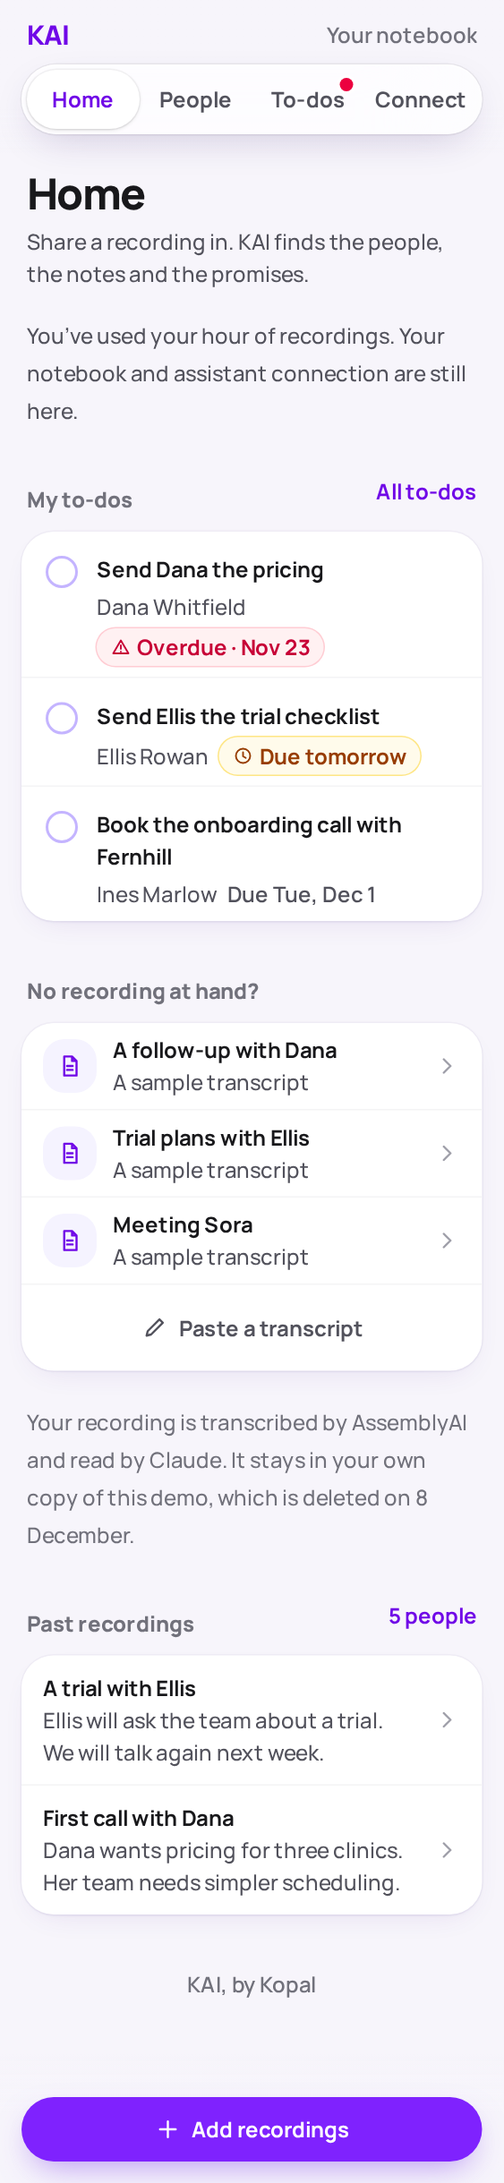
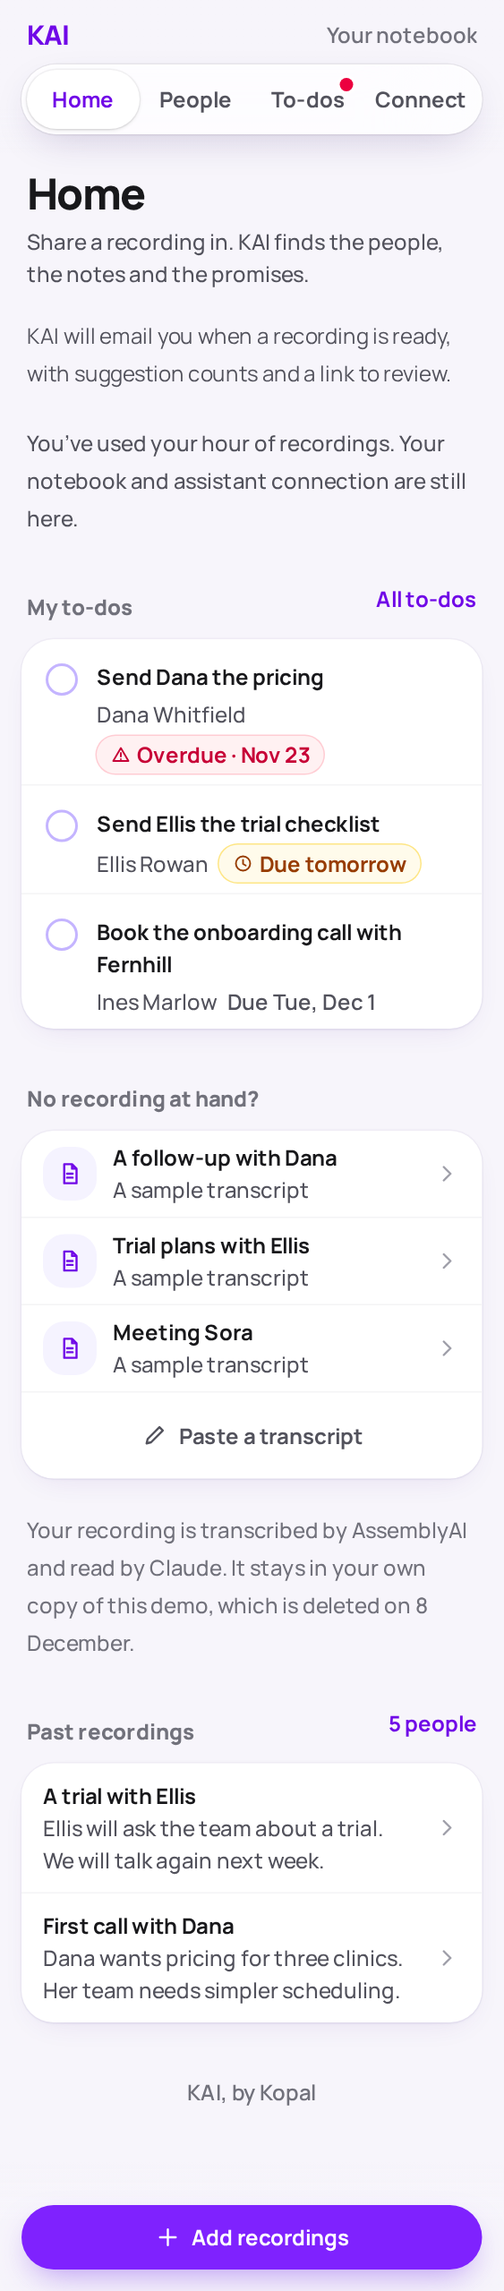
Email verified owners when recordings are ready to review (#21)
* Offer a private one-hour recording trial through the waitlist

* Clarify private trial access in the README

* Pause public trial claims pending email verification

* Verify trial email ownership and enforce IP and 100-user caps

* Inspect protected proxy fingerprints without exposing IP addresses

* Use the Sprite client IP header for trial limits

* Make phone shortcut setup three clear steps

* Bound transcription to reserved seconds and verify trial email privacy

* Email verified owners when recordings are ready to review

* Create temporary fixture directory for fresh Sprite checks

diff --git a/tests/recording-mail.test.ts b/tests/recording-mail.test.ts
@@ -1,0 +1,125 @@
+import {test} from 'node:test';
+import assert from 'node:assert/strict';
+import {randomUUID} from 'node:crypto';
+import {mkdirSync,mkdtempSync,rmSync} from 'node:fs';
+import {openDatabase,seed,type KaiDatabase} from '../src/server/db';
+import {createJudge} from '../src/server/access';
+import {addAudio,queueWorker,fakeTranscriber} from '../src/server/audio';
+import {testTone} from '../src/server/gateway';
+import {recordingMailWorker,type ReadyCounts} from '../src/server/recording-mail';
+import {readyMessage,resendReadySender} from '../src/server/trial-mail';
+import {createApp} from '../src/server/app';
+const day=86400000;
+function actor(db:KaiDatabase,verified=true) {
+ const judge=createJudge(db,false),email=randomUUID()+'@example.invalid';
+ db.prepare('UPDATE workspaces SET trial_seconds=3600,trial_verified=? WHERE id=?').run(Number(verified),judge.id);
+ db.prepare('INSERT INTO waitlist(email,created_at,workspace_id,verified_at) VALUES (?,?,?,?)').run(email,new Date().toISOString(),judge.id,verified ? new Date().toISOString():null);
+ return {...judge,email};
+}
+function recording(db:KaiDatabase,workspace:string,options:{status?:string;source?:string;notify?:number;transcribed?:number}={}) {
+ const id=randomUUID();
+ db.prepare('INSERT INTO conversations(id,workspace_id,title,summary,source,text,happened_on,status,notify_ready,transcribed) VALUES (?,?,?,?,?,?,?,?,?,?)').run(id,workspace,'Private invented title','Private invented summary',options.source??'recording','Private invented words','2026-11-26',options.status??'ready',options.notify??1,options.transcribed??1);
+ return id;
+}
+test('recording mail isolates verified recipients, sends counts only, and skips other sources and unfinished work',async()=>{
+ const db=openDatabase();seed(db);const first=actor(db),second=actor(db),unverified=actor(db,false);
+ const id=recording(db,first.id),empty=recording(db,second.id,{source:'shared'});
+ for(const kind of ['person','note','todo','done'])db.prepare("INSERT INTO suggestions VALUES (?,?,?,?,?,?,'proposed')").run(randomUUID(),first.id,id,kind,JSON.stringify({text:'Private invented action'}),'Private invented quote');
+ for(const options of [{status:'failed'},{status:'listening'},{status:'reading'},{status:'waiting'},{source:'sample'},{source:'paste'},{notify:0},{transcribed:0}])recording(db,first.id,options);
+ recording(db,unverified.id);recording(db,'public');
+ const sent:{email:string;id:string;counts:ReadyCounts}[]=[];
+ const worker=recordingMailWorker(db,async(email,id,counts)=>{sent.push({email,id,counts})});
+ try {
+  await Promise.all([worker.kick(),worker.kick()]);await worker.kick();
+  assert.equal(sent.length,2);
+  assert.deepEqual(sent.find(s=>s.id===id),{email:first.email,id,counts:{person:1,note:1,todo:1,done:1}});
+  assert.deepEqual(sent.find(s=>s.id===empty),{email:second.email,id:empty,counts:{person:0,note:0,todo:0,done:0}});
+  for(const result of sent) {
+   const text=readyMessage('https://kai.example.invalid',result.id,result.counts);
+   assert.ok(text.includes('/recordings/'+result.id));assert.ok(text.includes('browser where you started'));
+   for(const privateText of ['Private invented',first.email,second.email,first.cookie,second.cookie])assert.ok(!text.includes(privateText));
+  }
+  assert.match(readyMessage('https://kai.example.invalid',empty,sent.find(s=>s.id===empty)!.counts),/no new suggestions/);
+  assert.equal((db.prepare("SELECT count(*) n FROM suggestions WHERE conversation_id=? AND status='proposed'").get(id) as {n:number}).n,4);
+ }finally{await worker.stop();db.close()}
+});
+test('new shared audio queues one completion email after reading; mail failure leaves its suggestions ready',async()=>{
+ mkdirSync('.data',{recursive:true});
+ const db=openDatabase();seed(db);const judge=actor(db),directory=mkdtempSync('.data/mail-audio-');let sends=0;
+ const mail=recordingMailWorker(db,async()=>{sends++;throw new Error('Invented failure')});
+ const worker=queueWorker(db,async(_input,call)=>{call('describe_recording',{title:'Invented update',summary:'A made-up summary.\nNo new promises.'})},fakeTranscriber,()=>{void mail.kick()});
+ try {
+  const [id]=await addAudio(db,judge.id,[{name:'memo.wav',buffer:testTone(),date:Date.now()}],directory,'shared',{awaitingPerson:true});
+  await worker.kick();await mail.kick();assert.equal(sends,0);
+  db.prepare('UPDATE conversations SET awaiting_person=0 WHERE id=?').run(id);
+  await worker.kick();await mail.kick();assert.equal(sends,1);
+  assert.equal((db.prepare('SELECT status FROM conversations WHERE id=?').get(id) as {status:string}).status,'ready');
+ }finally{await worker.stop();await mail.stop();db.close();rmSync(directory,{recursive:true,force:true})}
+});
+test('recording mail retries the same payload and key after restart, bounded by attempts and idempotency lifetime',async()=>{
+ let db=openDatabase();seed(db);const judge=actor(db),id=recording(db,judge.id);let now=Date.now(),fail=true;
+ const sent:{id:string;counts:ReadyCounts}[]=[];
+ const send=async(_email:string,id:string,counts:ReadyCounts)=>{sent.push({id,counts});if(fail)throw new Error('Invented timeout after provider accepted mail')};
+ let worker=recordingMailWorker(db,send,()=>now);
+ try {
+  await worker.kick();await worker.stop();assert.equal(sent.length,1);
+  const snapshot=db.serialize();db.close();db=openDatabase(snapshot);now+=60001;
+  db.prepare("INSERT INTO suggestions VALUES (?,?,?,?,?,?,'proposed')").run(randomUUID(),judge.id,id,'note','{}','Invented quote');
+  worker=recordingMailWorker(db,send,()=>now);await worker.kick();now+=60001;fail=false;await worker.kick();await worker.kick();
+  assert.equal(sent.length,3);assert.deepEqual(sent[0],sent[1]);assert.deepEqual(sent[1],sent[2]);
+  const rejected=recording(db,judge.id);fail=true;
+  await worker.kick();now+=60001;await worker.kick();now+=60001;await worker.kick();now+=60001;await worker.kick();
+  assert.equal(sent.filter(s=>s.id===rejected).length,3);
+  const expired=recording(db,judge.id);await worker.kick();now+=23*3600000;await worker.kick();
+  assert.equal(sent.filter(s=>s.id===expired).length,1);
+ }finally{await worker.stop();db.close()}
+});
+test('recording mail enforces per-notebook, global and shared verification send caps across restart',async()=>{
+ let db=openDatabase();seed(db);let now=Date.now(),sends=0;
+ const actors=Array.from({length:7},()=>actor(db));for(const who of actors)for(let i=0;i<11;i++)recording(db,who.id);
+ let worker=recordingMailWorker(db,async()=>{sends++},()=>now);
+ try {
+  await worker.kick();assert.equal(sends,60);
+  const counts=db.prepare('SELECT workspace_id,count(*) n FROM notification_sends GROUP BY workspace_id').all() as {n:number}[];assert.ok(counts.every(r=>r.n<=10));
+  await worker.stop();const snapshot=db.serialize();db.close();db=openDatabase(snapshot);
+  worker=recordingMailWorker(db,async()=>{sends++},()=>now);await worker.kick();assert.equal(sends,60);
+  now+=day+1;
+  const insert=db.prepare('INSERT INTO trial_sends(id,ip_hash,email_hash,sent_at) VALUES (?,?,?,?)');for(let i=0;i<99;i++)insert.run(randomUUID(),'invented-ip-'+i,'invented-email-'+i,now);
+  await worker.kick();assert.equal(sends,61);await worker.kick();assert.equal(sends,61);
+ }finally{await worker.stop();db.close()}
+});
+test('verification shares the 100-attempt cap with recording emails',async()=>{
+ const db=openDatabase();seed(db);const judge=actor(db),now=Date.now();let sends=0;
+ const insert=db.prepare('INSERT INTO notification_sends(id,workspace_id,sent_at) VALUES (?,?,?)');for(let i=0;i<60;i++)insert.run(randomUUID(),judge.id,now);
+ const codes=db.prepare('INSERT INTO trial_sends(id,ip_hash,email_hash,sent_at) VALUES (?,?,?,?)');for(let i=0;i<40;i++)codes.run(randomUUID(),'invented-ip-'+i,'invented-email-'+i,now);
+ const app=createApp(db,{secureCookies:false,sendCode:async()=>{sends++}}),server=app.listen(18576,'127.0.0.1');await new Promise<void>(r=>server.once('listening',r));
+ try {
+  const r=await fetch('http://127.0.0.1:18576/api/trial/code',{method:'POST',headers:{'Content-Type':'application/json'},body:JSON.stringify({email:randomUUID()+'@example.invalid'})});assert.equal(r.status,429);assert.equal(sends,0);
+ }finally{await app.locals.queue.stop();await new Promise<void>(r=>server.close(()=>r()));db.close()}
+});
+test('Resend completion mail uses one stable idempotency key and a secret-free HTTPS review link',async()=>{
+ const original=globalThis.fetch;const requests:{body:any;key:string}[]=[];
+ globalThis.fetch=async(input,init)=>{
+  if(String(input).endsWith('/gateway/list'))return Response.json(['https://api.sprites.dev/v1/gateway/resend/invented']);
+  requests.push({body:JSON.parse(String(init?.body)),key:new Headers(init?.headers).get('Idempotency-Key')!});return Response.json({id:'invented-email'});
+ };
+ try {
+  const send=resendReadySender('KAI <kai@example.invalid>','https://kai.example.invalid');
+  const email=randomUUID()+'@example.invalid',id=randomUUID(),counts={person:1,note:2,todo:3,done:0};
+  await send(email,id,counts);await send(email,id,counts);assert.deepEqual(requests[0],requests[1]);
+  assert.deepEqual(requests[0].body.to,[email]);assert.match(requests[0].body.text,/3 suggested to-dos/);assert.ok(!requests[0].body.text.includes(email));
+  assert.throws(()=>resendReadySender('KAI <kai@example.invalid>','https://kai.example.invalid/?private=yes'));
+ }finally{globalThis.fetch=original}
+});
+
+test('a second recording finishing during mail delivery is sent without a new browser request',async()=>{
+ const db=openDatabase();seed(db);const judge=actor(db),first=recording(db,judge.id),second=recording(db,judge.id,{status:'reading'});
+ const sent:string[]=[];let begin!:()=>void,release!:()=>void;
+ const begun=new Promise<void>(r=>begin=r),held=new Promise<void>(r=>release=r);
+ const worker=recordingMailWorker(db,async(_email,id)=>{sent.push(id);if(id===first){begin();await held}});
+ try {
+  const run=worker.kick();await begun;
+  db.prepare("UPDATE conversations SET status='ready' WHERE id=?").run(second);void worker.kick();release();await run;
+  assert.deepEqual(sent,[first,second]);
+ }finally{release();await worker.stop();db.close()}
+});

diff --git a/src/server/recording-mail.ts b/src/server/recording-mail.ts
@@ -1,0 +1,51 @@
+import {randomUUID} from 'node:crypto';
+import type {KaiDatabase} from './db';
+export type ReadyCounts={person:number;note:number;todo:number;done:number};
+export type SendReady=(email:string,id:string,counts:ReadyCounts)=>Promise<void>;
+const day=86400000;
+/** One owner, like the recording queue. A crash leaves the same provider idempotency key. */
+export function recordingMailWorker(db:KaiDatabase,send:SendReady|undefined,now:()=>number=Date.now) {
+ let active:Promise<void>|undefined,stopped=false;
+ function kick() {
+  if(!send || stopped || active)return active??Promise.resolve();
+  active=(async()=>{
+   for(;;) {
+    if(stopped)return;
+   const ready=db.prepare(`SELECT c.id,c.workspace_id FROM conversations c JOIN waitlist w ON w.workspace_id=c.workspace_id
+    JOIN workspaces n ON n.id=c.workspace_id
+    WHERE c.notify_ready=1 AND c.status='ready' AND c.transcribed=1 AND c.source IN ('recording','shared')
+     AND w.verified_at IS NOT NULL AND n.trial_verified=1 AND n.trial_ended=0
+     AND NOT EXISTS (SELECT 1 FROM recording_emails e WHERE e.id=c.id)`).all() as {id:string;workspace_id:string}[];
+   for(const row of ready) {
+    const counts:ReadyCounts={person:0,note:0,todo:0,done:0};
+    for(const count of db.prepare("SELECT kind,count(*) n FROM suggestions WHERE conversation_id=? AND workspace_id=? AND status='proposed' GROUP BY kind").all(row.id,row.workspace_id) as {kind:keyof ReadyCounts;n:number}[])counts[count.kind]=count.n;
+    db.prepare('INSERT OR IGNORE INTO recording_emails(id,workspace_id,counts,queued_at) VALUES (?,?,?,?)').run(row.id,row.workspace_id,JSON.stringify(counts),now());
+   }
+    const at=now();
+    const job=db.transaction(()=>{
+     db.prepare('DELETE FROM notification_sends WHERE sent_at<=?').run(at-day);
+     db.prepare('UPDATE recording_emails SET closed=1 WHERE sent_at IS NULL AND (attempts>=3 OR (first_attempt_at IS NOT NULL AND first_attempt_at<=?))').run(at-23*3600000);
+     const total=db.prepare('SELECT (SELECT count(*) FROM notification_sends)+(SELECT count(*) FROM trial_sends WHERE sent_at>?) n').get(at-day) as {n:number};
+     const notifications=db.prepare('SELECT count(*) n FROM notification_sends').get() as {n:number};
+     if(total.n>=100 || notifications.n>=60)return;
+     const row=db.prepare(`SELECT e.id,e.workspace_id,e.counts,w.email FROM recording_emails e
+      JOIN waitlist w ON w.workspace_id=e.workspace_id JOIN workspaces n ON n.id=e.workspace_id
+      JOIN conversations c ON c.id=e.id AND c.workspace_id=e.workspace_id
+      WHERE e.sent_at IS NULL AND e.closed=0 AND e.next_attempt_at<=? AND w.verified_at IS NOT NULL
+       AND n.trial_verified=1 AND n.trial_ended=0 AND c.status='ready'
+       AND (SELECT count(*) FROM notification_sends s WHERE s.workspace_id=e.workspace_id)<10
+      ORDER BY e.queued_at,e.rowid LIMIT 1`).get(at) as {id:string;workspace_id:string;counts:string;email:string}|undefined;
+     if(!row)return;
+     db.prepare('INSERT INTO notification_sends(id,workspace_id,sent_at) VALUES (?,?,?)').run(randomUUID(),row.workspace_id,at);
+     db.prepare('UPDATE recording_emails SET first_attempt_at=coalesce(first_attempt_at,?),attempts=attempts+1,next_attempt_at=? WHERE id=?').run(at,at+60000,row.id);
+     return row;
+    })();
+    if(!job)return;
+    try {await send(job.email,job.id,JSON.parse(job.counts));db.prepare('UPDATE recording_emails SET sent_at=? WHERE id=?').run(now(),job.id);}
+    catch { /* Reserved attempts remain charged. No recipient, content or provider error is logged. */ }
+   }
+  })().finally(()=>{active=undefined});
+  return active;
+ }
+ return {kick,stop:async()=>{stopped=true;await active}};
+}

diff --git a/src/server/trial-mail.ts b/src/server/trial-mail.ts
@@ -1,16 +1,30 @@
 import {gatewayUrl,gatewayRequest} from './gateway';
 import type {SendCode} from './trial';
+import type {ReadyCounts,SendReady} from './recording-mail';
+async function sendMail(from:string,email:string,id:string,subject:string,text:string) {
+ const response=await fetch('https://api.sprites.dev/v1/gateway/list',{signal:AbortSignal.timeout(15000)});
+ if(!response.ok)throw new Error('Mail connector unavailable.');
+ const found=new Set<string>();
+ function visit(value:unknown) {
+  if(typeof value==='string'){try{found.add(gatewayUrl(value,'resend'));}catch{}}
+  else if(value && typeof value==='object')Object.values(value).forEach(visit);
+ }
+ visit(await response.json());
+ if(found.size!==1)throw new Error('Expected one mail connector.');
+ await gatewayRequest([...found][0],'/emails',{method:'POST',headers:{'Content-Type':'application/json','Idempotency-Key':id},body:JSON.stringify({from,to:[email],subject,text})});
+}
 export function resendSender(from:string):SendCode {
- return async(email,code,id)=>{
-  const response=await fetch('https://api.sprites.dev/v1/gateway/list',{signal:AbortSignal.timeout(15000)});
-  if(!response.ok)throw new Error('Mail connector unavailable.');
-  const found=new Set<string>();
-  function visit(value:unknown) {
-   if(typeof value==='string'){try{found.add(gatewayUrl(value,'resend'));}catch{}}
-   else if(value && typeof value==='object')Object.values(value).forEach(visit);
-  }
-  visit(await response.json());
-  if(found.size!==1)throw new Error('Expected one mail connector.');
-  await gatewayRequest([...found][0],'/emails',{method:'POST',headers:{'Content-Type':'application/json','Idempotency-Key':'kai-verification-'+id},body:JSON.stringify({from,to:[email],subject:'Your KAI verification code',text:`Your KAI verification code is ${code}. It expires in 10 minutes. If you did not request this, ignore this email.`})});
- };
+ return (email,code,id)=>sendMail(from,email,'kai-verification-'+id,'Your KAI verification code',`Your KAI verification code is ${code}. It expires in 10 minutes. If you did not request this, ignore this email.`);
+}
+export function readyMessage(origin:string,id:string,counts:ReadyCounts) {
+ const url=new URL(origin);
+ if(url.protocol!=='https:' || url.username || url.password || url.search || url.hash || url.pathname!=='/')throw new Error('A public HTTPS origin is required for recording mail.');
+ const items=[`${counts.person} suggested ${counts.person===1?'person':'people'}`,`${counts.note} suggested ${counts.note===1?'note':'notes'}`,`${counts.todo} suggested ${counts.todo===1?'to-do':'to-dos'}`,`${counts.done} ${counts.done===1?'promise':'promises'} that may be done`];
+ const hasSuggestions=Object.values(counts).some(n=>n>0);
+ return `Hi there,\n\nI've finished transcribing and summarizing your recording.\n\n${hasSuggestions ? "Here's what I found for you to review:\n"+items.map(s=>'• '+s).join('\n') : 'There are no new suggestions waiting. Your transcript and summary are ready to read.'}\n\nYou decide what to keep in KAI.\n\nReview in KAI: ${new URL('/recordings/'+encodeURIComponent(id),url).href}\n\nOpen this link in the browser where you started your notebook.\n\nSee you there,\nKAI, by Kopal`;
+}
+export function resendReadySender(from:string,origin:string):SendReady {
+ // Validate configuration before starting the worker; never derive links from request headers.
+ readyMessage(origin,'check',{person:0,note:0,todo:0,done:0});
+ return (email,id,counts)=>sendMail(from,email,'kai-recording-ready-'+id,'Your recording is ready — KAI',readyMessage(origin,id,counts));
 }

diff --git a/src/server/index.ts b/src/server/index.ts
@@ -1,4 +1,4 @@
-import { resendSender } from './trial-mail';
+import { resendSender,resendReadySender } from './trial-mail';
 import { mkdirSync,existsSync,readFileSync } from 'node:fs';
 import { dirname } from 'node:path';
 import { databasePath, persistentJudgeSecret, persistentDownloadSecret } from './config';
@@ -14,7 +14,9 @@ seed(db);
 const fake=process.env.KAI_MODEL === 'fake' || process.env.NODE_ENV !== 'production';
 const senderFile=dirname(file)+'/mail-from';
 const mailFrom=existsSync(senderFile) ? readFileSync(senderFile,'utf8').trim():undefined;
+const publicUrlFile=dirname(file)+'/public-url';
+const publicUrl=existsSync(publicUrlFile) ? readFileSync(publicUrlFile,'utf8').trim():undefined;
 const verifiedNetwork=existsSync(dirname(file)+'/trial-network-verified');
-const app=createApp(db,{trialsPaused:!mailFrom || !verifiedNetwork,trustSpriteProxy:process.env.NODE_ENV === 'production',sendCode:mailFrom ? resendSender(mailFrom):undefined,downloadSecret:process.env.NODE_ENV === 'production' ? persistentDownloadSecret(db) : process.env.KAI_DOWNLOAD_SECRET,xPostUrl:process.env.X_POST_URL,audioDirectory:file === ':memory:' ? '.data/audio' : dirname(file)+'/audio',transcriber:fake ? fakeTranscriber : assemblyTranscriber,reader:fake ? fakeReader : claudeReader,judgeSecret:process.env.NODE_ENV === 'production' ? persistentJudgeSecret(db) : process.env.KAI_JUDGE_SECRET,videoUrl:process.env.VIDEO_URL,videoFile:file===':memory:' ? undefined:dirname(file)+'/demo.mp4',secureCookies:process.env.NODE_ENV === 'production'});
+const app=createApp(db,{sendReady:mailFrom && publicUrl ? resendReadySender(mailFrom,publicUrl):undefined,trialsPaused:!mailFrom || !verifiedNetwork,trustSpriteProxy:process.env.NODE_ENV === 'production',sendCode:mailFrom ? resendSender(mailFrom):undefined,downloadSecret:process.env.NODE_ENV === 'production' ? persistentDownloadSecret(db) : process.env.KAI_DOWNLOAD_SECRET,xPostUrl:process.env.X_POST_URL,audioDirectory:file === ':memory:' ? '.data/audio' : dirname(file)+'/audio',transcriber:fake ? fakeTranscriber : assemblyTranscriber,reader:fake ? fakeReader : claudeReader,judgeSecret:process.env.NODE_ENV === 'production' ? persistentJudgeSecret(db) : process.env.KAI_JUDGE_SECRET,videoUrl:process.env.VIDEO_URL,videoFile:file===':memory:' ? undefined:dirname(file)+'/demo.mp4',secureCookies:process.env.NODE_ENV === 'production'});
 const server = app.listen(Number(process.env.PORT ?? 18500), process.env.HOST ?? '127.0.0.1', () => console.log('KAI is ready'));
 for (const signal of ['SIGTERM','SIGINT']) process.on(signal, () => server.close(async() => {await app.locals.queue.stop();db.close(); process.exit(0);}));

diff --git a/src/server/db.ts b/src/server/db.ts
@@ -41,6 +41,13 @@ export function openDatabase(path:string|Buffer = ':memory:') {
       FOREIGN KEY(workspace_id,owner_person_id) REFERENCES people(workspace_id,id),
       FOREIGN KEY(workspace_id,conversation_id) REFERENCES conversations(workspace_id,id)
     );
+    CREATE TABLE IF NOT EXISTS recording_emails (
+      id TEXT PRIMARY KEY REFERENCES conversations(id), workspace_id TEXT NOT NULL REFERENCES workspaces(id),
+      counts TEXT NOT NULL CHECK(json_valid(counts)), queued_at INTEGER NOT NULL,
+      first_attempt_at INTEGER, attempts INTEGER NOT NULL DEFAULT 0, next_attempt_at INTEGER NOT NULL DEFAULT 0,
+      sent_at INTEGER, closed INTEGER NOT NULL DEFAULT 0
+    );
+    CREATE TABLE IF NOT EXISTS notification_sends (id TEXT PRIMARY KEY, workspace_id TEXT NOT NULL REFERENCES workspaces(id), sent_at INTEGER NOT NULL);
     CREATE TABLE IF NOT EXISTS trial_challenges (email TEXT PRIMARY KEY,id TEXT NOT NULL,ip_hash TEXT NOT NULL,code_hash TEXT NOT NULL,expires_at INTEGER NOT NULL,attempts INTEGER NOT NULL,delivered INTEGER NOT NULL);
     CREATE TABLE IF NOT EXISTS trial_sends (id TEXT PRIMARY KEY,ip_hash TEXT NOT NULL,email_hash TEXT NOT NULL,sent_at INTEGER NOT NULL);
     CREATE TABLE IF NOT EXISTS waitlist (email TEXT PRIMARY KEY, created_at TEXT NOT NULL);
@@ -68,6 +75,7 @@ export function openDatabase(path:string|Buffer = ':memory:') {
   const conversations=db.prepare('PRAGMA table_info(conversations)').all() as {name:string}[];
   if(!conversations.some(c=>c.name==='audio_path')) db.exec("ALTER TABLE conversations ADD COLUMN audio_path TEXT; ALTER TABLE conversations ADD COLUMN happened_at INTEGER NOT NULL DEFAULT 0; ALTER TABLE conversations ADD COLUMN attempts INTEGER NOT NULL DEFAULT 0; ALTER TABLE conversations ADD COLUMN transcribed INTEGER NOT NULL DEFAULT 0;");
   if(!conversations.some(c=>c.name==='batch_id')) db.exec('ALTER TABLE conversations ADD COLUMN batch_id TEXT');
+  if(!conversations.some(c=>c.name==='notify_ready'))db.exec('ALTER TABLE conversations ADD COLUMN notify_ready INTEGER NOT NULL DEFAULT 0');
   if(!conversations.some(c=>c.name==='reserved_seconds'))db.exec('ALTER TABLE conversations ADD COLUMN reserved_seconds INTEGER');
   if(!conversations.some(c=>c.name==='reserved_on')) db.exec('ALTER TABLE conversations ADD COLUMN reserved_on TEXT');
   if(!conversations.some(c=>c.name==='awaiting_person')) db.exec('ALTER TABLE conversations ADD COLUMN awaiting_person INTEGER NOT NULL DEFAULT 0');

diff --git a/src/server/audio.ts b/src/server/audio.ts
@@ -38,6 +38,7 @@ export async function addAudio(db:KaiDatabase,workspace:string,files:AudioInput[
       writeFileSync(audioPath,file.buffer,{mode:0o600,flag:'wx'});written.push(audioPath);
       db.prepare('INSERT INTO conversations (id,workspace_id,title,summary,source,text,happened_on,status,audio_path,happened_at,batch_id,awaiting_person,reserved_on) VALUES (?,?,?,?,?,?,?,?,?,?,?,?,?)').run(id,workspace,'New recording','',source,'',new Date(file.date).toISOString().slice(0,10),'waiting',audioPath,file.date,batch,options.awaitingPerson ? 1:0,new Date().toISOString().slice(0,10));
       db.prepare('UPDATE conversations SET reserved_seconds=? WHERE id=?').run(durations.get(file),id);
+      db.prepare('UPDATE conversations SET notify_ready=1 WHERE id=? AND EXISTS (SELECT 1 FROM waitlist WHERE workspace_id=? AND verified_at IS NOT NULL)').run(id,workspace);
       if(options.person!==undefined)linkRecordingPerson(db,workspace,id,options.person);
       return id;
     });})();
@@ -68,7 +69,7 @@ export const assemblyTranscriber:Transcriber=async(audio,signal,reservedSeconds=
   }
 };
 type Job={id:string;workspace_id:string;audio_path:string|null;status:string;attempts:number;text:string;transcribed:number;reserved_seconds:number|null};
-export function queueWorker(db:KaiDatabase,reader:Reader,transcribe:Transcriber) {
+export function queueWorker(db:KaiDatabase,reader:Reader,transcribe:Transcriber,onReady:()=>void=()=>{}) {
   let active:Promise<void>|undefined,stopped=false;
   const controller=new AbortController();
   function retryInterrupted(job:Job) {
@@ -105,6 +106,7 @@ export function queueWorker(db:KaiDatabase,reader:Reader,transcribe:Transcriber)
             db.prepare('UPDATE conversations SET audio_path=NULL WHERE id=?').run(job.id);
           }
           await readConversation(db,job.id,reader,signal);
+          onReady();
           if(signal.aborted && !stopped) retryInterrupted(db.prepare('SELECT * FROM conversations WHERE id=?').get(job.id) as Job);
         } catch(error) {
           if(error instanceof AudioDurationError) {

diff --git a/src/server/app.ts b/src/server/app.ts
@@ -1,3 +1,4 @@
+import {recordingMailWorker,type SendReady} from './recording-mail';
 import express from 'express';
 import {mountTrial,type TrialOptions} from './trial';
 import path from 'node:path';
@@ -14,11 +15,13 @@ import { mountSharing } from './sharing';
 import { mountMcp } from './mcp';
 import { mountWaitlist } from './waitlist';
 import { linkRecordingPerson } from './recording-person';
-export type AppOptions = TrialOptions & {trialsPaused?:boolean;judgeSecret?:string; downloadSecret?:string; xPostUrl?:string; now?:()=>number; videoUrl?:string;videoFile?:string; secureCookies?:boolean;reader?:Reader;transcriber?:Transcriber;audioDirectory?:string};
+export type AppOptions = TrialOptions & {sendReady?:SendReady;trialsPaused?:boolean;judgeSecret?:string; downloadSecret?:string; xPostUrl?:string; now?:()=>number; videoUrl?:string;videoFile?:string; secureCookies?:boolean;reader?:Reader;transcriber?:Transcriber;audioDirectory?:string};
 export function createApp(db: KaiDatabase, options: AppOptions = {}) {
   const app = express();
-  const queue=queueWorker(db,options.reader ?? fakeReader,options.transcriber ?? fakeTranscriber);
-  const work=queue.kick;app.locals.queue=queue;void work();
+  const mail=recordingMailWorker(db,options.sendReady,options.now);
+  const queue=queueWorker(db,options.reader ?? fakeReader,options.transcriber ?? fakeTranscriber,()=>{void mail.kick();});
+  const work=()=>{void mail.kick();return queue.kick();};
+  app.locals.queue={kick:work,stop:async()=>{await queue.stop();await mail.stop();}};void work();
   const upload=multer({storage:multer.memoryStorage(),limits:{fileSize:maxAudioBytes,files:5,fields:2,fieldSize:2048,parts:7}}).array('recordings',5);
   app.disable('x-powered-by');
   app.use((_req,res,next) => {res.set({'Referrer-Policy':'no-referrer','Cache-Control':'no-store','X-Content-Type-Options':'nosniff'});next();});

diff --git a/src/look/screens/Trial.tsx b/src/look/screens/Trial.tsx
@@ -8,7 +8,7 @@ export function Trial({busy,error,codeSent,onSubmit,onVerify,onResend}:{busy?:bo
   <Card className="p-5"><form className="space-y-4" onSubmit={event=>{event.preventDefault();if(codeSent)onVerify?.(code);else onSubmit(email)}}>
    {codeSent ? <Field label="Verification code" id="trial-code" type="password" inputMode="numeric" autoComplete="one-time-code" pattern="[0-9]{6}" minLength={6} maxLength={6} required value={code} onChange={e=>setCode(e.target.value)}/> : <>
     <Field label="Email" id="trial-email" type="email" autoComplete="email" required maxLength={254} value={email} onChange={event=>setEmail(event.target.value)}/>
-    <p className="text-base/7 text-zinc-600">We’ll send a verification code through Resend. Your email reserves one trial, and I’ll write once if KAI becomes a product. Ask me and I delete it.</p>
+    <p className="text-base/7 text-zinc-600">We’ll send a verification code through Resend. Your email reserves one trial. KAI will email you when a recording is ready, with suggestion counts and a link to review. I’ll also write once if KAI becomes a product. Ask me and I delete it.</p>
    </>}
    {error && <Notice tone="error">{error}</Notice>}
    <Button variant="primary" wide type="submit" disabled={busy}>{busy ? 'Please wait…':codeSent ? 'Verify and open notebook':'Send verification code'}</Button>

diff --git a/src/look/screens/Home.tsx b/src/look/screens/Home.tsx
@@ -175,6 +175,7 @@ export function Home({
     >
       {queue.length > 0 && <Queue items={queue} />}
       {home?.trialSeconds!=null && !home.trialVerified && <Card className="p-5"><p className="mb-3 text-base/7">Verify your email to continue your trial. Your notebook and remaining time are kept.</p><Button href="/try" variant="outline">Verify email</Button></Card>}
+      {home?.trialSeconds!=null && home.trialVerified && <p className="px-1 text-base/7 text-zinc-600">KAI will email you when a recording is ready, with suggestion counts and a link to review.</p>}
       {home?.trialSeconds!=null && <p className="px-1 text-base/7 font-medium text-zinc-600">{home.trialSeconds ? `${Math.floor(home.trialSeconds/60)} min ${home.trialSeconds%60} sec of recording time left` : 'You’ve used your hour of recordings. Your notebook and assistant connection are still here.'}</p>}
       {home && !readOnly && home.conversations.length===0 && <Card className="p-5"><h2 className="text-xl font-extrabold">Your notebook starts here</h2><p className="mt-2 text-base/7 text-zinc-600">Add a recording. KAI will find the people, notes and to-dos for you to review.</p></Card>}
       {addError && <Notice tone="error">{addError}</Notice>}

diff --git a/tests/db.test.ts b/tests/db.test.ts
@@ -24,11 +24,11 @@ test('fresh judge seeding tolerates optional columns added by a later step',()=>
     assert.equal((db.pragma('foreign_key_check') as unknown[]).length,0);
   }finally{db.close();}
 });
-test('nine tables, Mara’s accepted data, relative dates, and safe reseeding', () => {
+test('eleven tables, Mara’s accepted data, relative dates, and safe reseeding', () => {
   const db = openDatabase();
   try {
     seed(db,new Date('2026-12-01T12:00:00Z'));
-    assert.equal((db.prepare("SELECT count(*) AS n FROM sqlite_master WHERE type='table'").get() as {n:number}).n,9);
+    assert.equal((db.prepare("SELECT count(*) AS n FROM sqlite_master WHERE type='table'").get() as {n:number}).n,11);
     assert.deepEqual(db.prepare('SELECT name FROM people ORDER BY name').all(),[{name:'Dana Whitfield'},{name:'Ellis Rowan'},{name:'Nia Calder'}]);
     assert.deepEqual(db.prepare("SELECT due_on FROM todos WHERE id='pricing'").get(),{due_on:'2026-11-29'});
     assert.deepEqual(db.prepare("SELECT happened_on FROM conversations WHERE id='dana-call'").get(),{happened_on:'2026-11-27'});

diff --git a/src/server/trial.ts b/src/server/trial.ts
@@ -42,7 +42,7 @@ export function mountTrial(app:Express,db:KaiDatabase,options:TrialOptions) {
    db.prepare('DELETE FROM trial_sends WHERE sent_at<?').run(at-24*hour);
    db.prepare('DELETE FROM trial_challenges WHERE expires_at<?').run(at);
    const recent=db.prepare('SELECT count(*) n FROM trial_sends WHERE ip_hash=? AND sent_at>?').get(network,at-hour) as {n:number};
-   const total=db.prepare('SELECT count(*) n FROM trial_sends').get() as {n:number};
+   const total=db.prepare('SELECT (SELECT count(*) FROM trial_sends) + (SELECT count(*) FROM notification_sends WHERE sent_at>?) n').get(at-24*hour) as {n:number};
    const latest=db.prepare('SELECT sent_at FROM trial_sends WHERE email_hash=? ORDER BY sent_at DESC LIMIT 1').get(digest('email',email)) as {sent_at:number}|undefined;
    if(recent.n>=3 || total.n>=100 || (latest && latest.sent_at>at-60000))return 'limited';
    if(grants()>=100)return 'full';

diff --git a/PRD.md b/PRD.md
@@ -547,3 +547,48 @@ for verification messages only. No new paid plan is authorised.
   without a refill. Confirm real email receipt and code entry with Copal;
   check the Sprite proxy overwrites spoofed IP headers before enabling
   public trials. Until then new claims remain paused.
+
+
+## 13 · Recording-ready email (Copal, 26 November)
+
+Copal requested “notifications through email that the upload has been
+transcribed and summarized” in “a friendly tone as update from Kai”,
+instead of phone notifications. He approved “one friendly email per
+completed recording, sent only to its notebook’s verified address, with
+suggestion counts and a ‘Review in KAI’ link (keeping transcript and
+personal details inside KAI)” with “Yes, counts and a review link”.
+
+This is a second, narrow exception to §§3, 4, 10 and 12’s no-sending rules
+and to §12’s verification-only email exception. It supersedes §10’s
+single-purpose restriction for verified trial addresses only. KAI still
+sends no promises, follow-ups or messages to a person mentioned in a recording.
+
+- For new audio uploads, including shared voice notes, send one friendly
+  completion message after transcription, summary and suggestion creation
+  have all finished successfully. Do not send for old recordings, pasted
+  transcripts, samples, failures or waitlist-only/unverified addresses.
+- Send only to the verified email attached to that notebook, through the
+  existing Resend connector. Include counts of proposed people, notes,
+  to-dos and kept promises; include no names, titles, words, summary text,
+  quotes or suggested actions. With zero suggestions, say the transcript
+  and summary are ready. Say the person decides what to keep.
+- “Review in KAI” opens that recording in the existing notebook browser.
+  It contains no access secret and grants no access in another browser.
+  Email is not notebook recovery. Explain the browser requirement.
+- Persist delivery state across restarts, use provider idempotency and
+  bounded retries, and never change recording success because mail fails.
+  At most three attempts per recording within 23 hours of the first
+  attempt, 10 recording-email attempts per notebook and 60 overall per
+  rolling day. Verification and recording mail share the existing overall
+  cap of 100 send attempts per rolling day. No new connector or paid plan.
+- Explain these messages in trial signup and on the verified trial’s Home
+  screen. Existing waitlist-only subscriptions keep their original promise.
+- Checks: `npm run check`; gallery at 375 px; one message for a ready
+  verified recording, including shared uploads and zero suggestions;
+  none for failures, old recordings, samples, pasted words or unverified
+  addresses; correct notebook/recipient isolation; no content or secrets
+  in the email; duplicate kicks, retries and restarts do not create another
+  logical message; sending failure leaves suggestions intact; all attempt
+  limits hold. Check the new queue on the Sprite using a fake mail sender
+  and invented data, without sending to a real address. Copal confirms
+  receipt after uploading his own invented recording.
